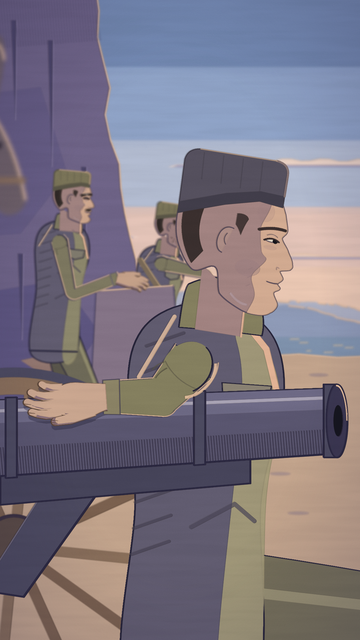
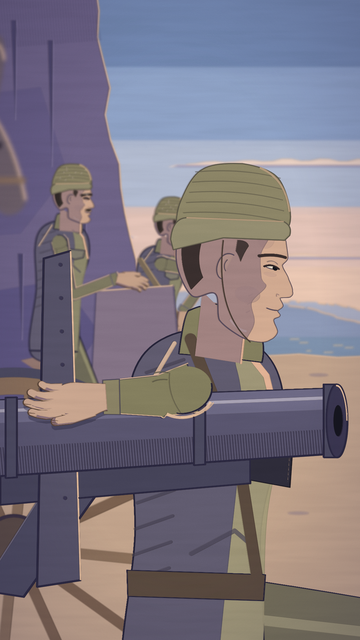
ben-my-chree: kalibrasyon tur-2 (yüz/omuz/kabalak; eşik altı ≈5.5)
Claude-Session: https://claude.ai/code/session_016TQpGXhaa5TtHYb1dDrsRh

diff --git a/src/kit/sablonlar/benmychree/Figur.tsx b/src/kit/sablonlar/benmychree/Figur.tsx
@@ -18,11 +18,11 @@ export type YuzKart = {
 const TEN_GOLGE = "#8a6f7a";
 // tasarim §4.1 teğmen (≈24, bıyıksız, temiz, genç) · §4.2 E1–E4 · §4.2b T1–T4 (kısa saç, başlıksız, kıyafet koyu nötr)
 export const YUZ_KART: Record<string, YuzKart> = {
-  tegmen: { ad: "Teğmen", yas: 24, uzun: 1.0, cene: 0.45, burun: 1.05, dudak: 0.9, elmacik: 0.5, boyun: 0.95, kas: 1.15, kasAci: 1, goz: 0.95, biyik: "yok", sakal: 0, yara: false, toz: 0, ter: false, kirisik: 0, ten: "#cba790", tenGolge: TEN_GOLGE, sac: "#3a2f2e", baslik: "yuvarlak-koyu", kulak: 1 },
-  E1: { ad: "E1 usta er", yas: 38, uzun: 0.95, cene: 0.95, burun: 1.0, dudak: 1.0, elmacik: 0.6, boyun: 1.25, kas: 1.35, kasAci: 4, goz: 0.55, biyik: "gur", sakal: 0, yara: false, toz: 0.6, ter: true, kirisik: 0.55, ten: "#c4a088", tenGolge: TEN_GOLGE, sac: "#2f2826", baslik: "yuvarlak-haki", kulak: 1 },
-  E2: { ad: "E2 genç er", yas: 19, uzun: 1.08, cene: 0.25, burun: 0.95, dudak: 0.85, elmacik: 0.9, boyun: 0.85, kas: 0.8, kasAci: -3, goz: 1.1, biyik: "yok", sakal: 0, yara: false, toz: 0.5, ter: true, kirisik: 0, ten: "#d0ae96", tenGolge: TEN_GOLGE, sac: "#2f2826", baslik: "yuvarlak-haki", kulak: 1 },
-  E3: { ad: "E3 orta yaşlı er", yas: 30, uzun: 0.92, cene: 0.7, burun: 0.92, dudak: 1.05, elmacik: 0.3, boyun: 1.1, kas: 1.1, kasAci: 2, goz: 0.85, biyik: "yok", sakal: 0.8, yara: true, toz: 0.4, ter: false, kirisik: 0.25, ten: "#b89480", tenGolge: TEN_GOLGE, sac: "#2f2826", baslik: "yuvarlak-haki", kulak: 1 },
-  E4: { ad: "E4 yaşlı er", yas: 45, uzun: 1.1, cene: 0.6, burun: 1.12, dudak: 0.8, elmacik: 0.8, boyun: 1.0, kas: 1.45, kasAci: 3, goz: 0.8, biyik: "seyrek-kir", sakal: 0, yara: false, toz: 0.3, ter: false, kirisik: 0.9, ten: "#c9a88f", tenGolge: TEN_GOLGE, sac: "#6e6662", baslik: "yuvarlak-haki", kulak: 1.25 },
+  tegmen: { ad: "Teğmen", yas: 24, uzun: 1.0, cene: 0.45, burun: 1.05, dudak: 0.9, elmacik: 0.5, boyun: 0.95, kas: 1.15, kasAci: 1, goz: 0.95, biyik: "yok", sakal: 0, yara: false, toz: 0, ter: false, kirisik: 0, ten: "#cba790", tenGolge: TEN_GOLGE, sac: "#3a2f2e", baslik: "kabalak-subay", kulak: 1 },
+  E1: { ad: "E1 usta er", yas: 38, uzun: 0.95, cene: 0.95, burun: 1.0, dudak: 1.0, elmacik: 0.6, boyun: 1.25, kas: 1.35, kasAci: 4, goz: 0.55, biyik: "gur", sakal: 0, yara: false, toz: 0.6, ter: true, kirisik: 0.55, ten: "#c4a088", tenGolge: TEN_GOLGE, sac: "#2f2826", baslik: "kabalak-er", kulak: 1 },
+  E2: { ad: "E2 genç er", yas: 19, uzun: 1.08, cene: 0.25, burun: 0.95, dudak: 0.85, elmacik: 0.9, boyun: 0.85, kas: 0.8, kasAci: -3, goz: 1.1, biyik: "yok", sakal: 0, yara: false, toz: 0.5, ter: true, kirisik: 0, ten: "#d0ae96", tenGolge: TEN_GOLGE, sac: "#2f2826", baslik: "kabalak-er", kulak: 1 },
+  E3: { ad: "E3 orta yaşlı er", yas: 30, uzun: 0.92, cene: 0.7, burun: 0.92, dudak: 1.05, elmacik: 0.3, boyun: 1.1, kas: 1.1, kasAci: 2, goz: 0.85, biyik: "yok", sakal: 0.8, yara: true, toz: 0.4, ter: false, kirisik: 0.25, ten: "#b89480", tenGolge: TEN_GOLGE, sac: "#2f2826", baslik: "kabalak-er", kulak: 1 },
+  E4: { ad: "E4 yaşlı er", yas: 45, uzun: 1.1, cene: 0.6, burun: 1.12, dudak: 0.8, elmacik: 0.8, boyun: 1.0, kas: 1.45, kasAci: 3, goz: 0.8, biyik: "seyrek-kir", sakal: 0, yara: false, toz: 0.3, ter: false, kirisik: 0.9, ten: "#c9a88f", tenGolge: TEN_GOLGE, sac: "#6e6662", baslik: "kasket-yumusak", kulak: 1.25 },
   T1: { ad: "T1", yas: 22, uzun: 1.06, cene: 0.3, burun: 0.95, dudak: 0.85, elmacik: 0.7, boyun: 0.9, kas: 0.8, kasAci: -2, goz: 1.0, biyik: "yok", sakal: 0, yara: false, toz: 0, ter: false, kirisik: 0, ten: "#d0ae96", tenGolge: TEN_GOLGE, sac: "#5a4636", baslik: "yok", kulak: 1 },
   T2: { ad: "T2", yas: 40, uzun: 0.95, cene: 0.85, burun: 1.05, dudak: 1.0, elmacik: 0.5, boyun: 1.2, kas: 1.2, kasAci: 2, goz: 0.8, biyik: "kir-gur", sakal: 0, yara: false, toz: 0, ter: false, kirisik: 0.6, ten: "#c4a088", tenGolge: TEN_GOLGE, sac: "#7a7068", baslik: "yok", kulak: 1.05 },
   T3: { ad: "T3", yas: 28, uzun: 1.08, cene: 0.55, burun: 1.08, dudak: 0.85, elmacik: 0.95, boyun: 0.95, kas: 1.0, kasAci: -6, goz: 1.15, biyik: "yok", sakal: 0.15, yara: false, toz: 0.8, ter: false, kirisik: 0.15, ten: "#c9a88f", tenGolge: TEN_GOLGE, sac: "#4a3a30", baslik: "yok", kulak: 1 },
@@ -141,7 +141,7 @@ export const _pts = pts;
 // Yerel birim m; s = px/m; ayak = iki ayağın ortası (zemin teması). yon +1 sağa bakar, −1 sola.
 // Kıyafet: "ceket" (Osmanlı haki ceket, kalça altına iner) · "kazak" (Royal Navy iş kazağı, belde biter). Rütbe/arma/rozet yok.
 export type FigurPoz = { egilme?: number; basEgim?: number; adim?: number; agirlik?: number; diz?: boolean; nefes?: number };
-export type Kiyafet = { tur: "ceket" | "kazak"; renk: string; isik: string; golge: string; pantolon: string; pantolonIsik: string; cizme: string };
+export type Kiyafet = { tur: "ceket" | "kazak"; renk: string; isik: string; golge: string; pantolon: string; pantolonIsik: string; cizme: string; kemer?: boolean; kayis?: boolean; durbun?: boolean; dolak?: boolean };
 const ik2 = (a: P2, b: P2, L1: number, L2: number, yon: number): P2 => {
   const d = Math.min(L1 + L2 - 1e-4, Math.hypot(b[0] - a[0], b[1] - a[1])), t = Math.atan2(b[1] - a[1], b[0] - a[0]);
   const c = Math.acos(Math.max(-1, Math.min(1, (L1 * L1 + d * d - L2 * L2) / (2 * L1 * d))));
@@ -190,6 +190,9 @@ export const ProfilFigur: React.FC<{ ayak: P2; s: number; yon: 1 | -1; boy?: num
       {bacak(kArka, arkaAyak, mix(k.pantolon, "#1c1a24", 0.25))}
       <path d={ayakB(arkaAyak, false)} fill={k.cizme} stroke="#1c1a24" strokeWidth={2} />
       {bacak(kOn, onAyak, k.pantolon)}
+      {k.dolak && [[kArka, arkaAyak], [kOn, onAyak]].map(([kk, aa], j) => { const a0 = kk as P2, a1 = aa as P2; return <g key={`dl${j}`}>
+        <path d={kapsul([a0[0] + (a1[0] - a0[0]) * 0.35, a0[1] + (a1[1] - a0[1]) * 0.35], [a1[0], a1[1] - 0.09 * s], 0.052 * f * s, 0.045 * f * s)} fill={mix(k.pantolon, "#9a9070", 0.35)} stroke="#24223a" strokeWidth={2} />
+        {[0.45, 0.58, 0.71, 0.84].map((q, i) => { const p: P2 = [a0[0] + (a1[0] - a0[0]) * q, a0[1] + (a1[1] - a0[1]) * q]; return <line key={i} x1={p[0] - 0.05 * s} y1={p[1] + 0.012 * s} x2={p[0] + 0.05 * s} y2={p[1] - 0.012 * s} stroke="#4a4436" strokeWidth={Math.max(1.5, 0.005 * s)} opacity={0.8} />; })}</g>; })}
       <path d={ayakB(onAyak, true)} fill={k.cizme} stroke="#1c1a24" strokeWidth={2} />
       {isik === "on" && <path d={`M${kalca[0] + yon * 0.07 * s},${kalca[1]} L${kOn[0] + yon * 0.05 * s},${kOn[1]} L${onAyak[0] + yon * 0.04 * s},${onAyak[1] - 0.1 * s}`} stroke={k.pantolonIsik} strokeWidth={Math.max(3, 0.02 * s)} fill="none" />}
       {/* boyun */}
@@ -210,6 +213,10 @@ export const ProfilFigur: React.FC<{ ayak: P2; s: number; yon: 1 | -1; boy?: num
       {/* kumaş kıvrımları + ceket alt kenarı */}
       {[0.12, 0.26].map((v, i) => <path key={i} d={`M${pts([R(-0.02 * f, v * f), R(0.06 * f, (v + 0.05) * f), R(0.1 * f, (v + 0.02) * f)])}`} stroke={mix(k.golge, "#1c1a24", 0.35)} strokeWidth={Math.max(2, 0.008 * s)} fill="none" opacity={0.7} />)}
       {k.tur === "ceket" && <path d={`M${pts([R(-0.13 * f, ceketBoy + 0.02), R(0.13 * f, ceketBoy + 0.04)])}`} stroke="#24223a" strokeWidth={Math.max(2, 0.008 * s)} />}
+      {k.kemer && <path d={`M${pts([R(-0.135 * f, 0.03 * f), R(0.125 * f, 0.04 * f), R(0.125 * f, 0.09 * f), R(-0.14 * f, 0.08 * f)])} Z`} fill="#5a4a3e" stroke="#24223a" strokeWidth={2} />}
+      {k.kayis && <path d={`M${pts([R(-0.05 * f, 0.53 * f), R(0.06 * f, 0.3 * f), R(0.11 * f, 0.08 * f)])}`} stroke="#5a4a3e" strokeWidth={Math.max(3, 0.022 * s)} fill="none" />}
+      {k.durbun && <g><path d={`M${pts([R(0.07 * f, 0.36 * f), R(0.16 * f, 0.34 * f), R(0.16 * f, 0.26 * f), R(0.07 * f, 0.27 * f)])} Z`} fill="#2e2c3a" stroke="#1c1a24" strokeWidth={2} />
+        <path d={`M${pts([R(0.155 * f, 0.34 * f), R(0.155 * f, 0.27 * f)])}`} stroke={BP.kenar} strokeWidth={2} /></g>}
       {!basYok && <BasProfil kart={kart} x={sk.bas[0]} y={sk.bas[1]} H={0.27 * f * s} ayna={yon === -1} egim={(pz.basEgim ?? 0) * yon + ((pz.egilme ?? 0) * yon) / 2} isik={isik} sicak={sicak} kenar={kenar} bakisY={bakisY} />}
       {onKol}
     </g>
@@ -252,6 +259,23 @@ export type BaslikTip = "yuvarlak-haki" | "yuvarlak-koyu" | "yok" | (string & {}
 export const BaslikProfil: React.FC<{ tip: BaslikTip; u: number; H: number; isik: "on" | "arka"; sicak: string; kenar: string }> = ({ tip, u, H, isik, sicak, kenar }) => {
   if (tip === "yok") return null;
   const sw = (px: number) => px / H;
+  if (tip === "kabalak-subay" || tip === "kabalak-er") {
+    // kabalak (tasarim §4.1–4.2; LoC 20341r): yüksek yuvarlak tepe (≈ 0.55 × yüz), kenarı dışa sarılı kalın simit, siperliksiz; subayda çene kayışı
+    const er = tip === "kabalak-er", bc = er ? "#8a8264" : "#8e8768", bk = mix(bc, "#1c1a24", 0.4), bi = mix(bc, isik === "on" ? sicak : kenar, 0.45);
+    const tepe = -0.3 * u - 0.44, ust = yol([[-0.42, -0.2 * u], [-0.44, -0.42 * u], [-0.32, tepe + 0.08], [-0.05, tepe], [0.2, tepe + 0.05], [0.33, -0.48 * u], [0.32, -0.32 * u], [0.1, -0.3 * u], [-0.2, -0.24 * u]]);
+    return <g>
+      <path d={ust} fill={bc} stroke={bk} strokeWidth={sw(3)} />
+      {[0, 1, 2, 3, 4].map((i) => { const y0 = (-0.36 - i * 0.075) * u, j = er ? (rr(`kb${i}`) - 0.5) * 0.05 : 0; return <path key={i} d={`M${-0.41 + i * 0.01},${y0 + 0.03 + j} Q${-0.05},${y0 - 0.05 - j} ${0.31 - i * 0.02},${y0 - 0.02}`} stroke={bk} strokeWidth={sw(2.2)} fill="none" opacity={0.65} />; })}
+      <path d={`M0.33,${-0.46 * u} Q0.27,${tepe + 0.06} 0.08,${tepe + 0.01}`} stroke={bi} strokeWidth={sw(6)} fill="none" />
+      <path d={`M-0.47,-0.13 Q-0.48,${-0.28 * u} -0.38,${-0.3 * u} L0.3,${-0.38 * u} Q0.37,${-0.36 * u} 0.36,${-0.29 * u} L0.33,${-0.25 * u} L-0.1,${-0.2 * u} L-0.44,-0.06 Z`} fill={mix(bc, "#ffffff", 0.06)} stroke={bk} strokeWidth={sw(3)} />
+      <path d={`M-0.38,${-0.3 * u} L0.3,${-0.38 * u}`} stroke={bi} strokeWidth={sw(4)} />
+      {er && Array.from({ length: 10 }).map((_, i) => <circle key={`t${i}`} cx={-0.35 + rr(`kt${i}`) * 0.6} cy={(-0.4 - rr(`kty${i}`) * 0.3) * u} r={sw(2)} fill="#c9b8b0" opacity={0.6} />)}
+      {!er && <path d={`M-0.1,${-0.18 * u} Q-0.08,${0.32 * u} 0.2,${0.5 * u}`} stroke="#4a3c34" strokeWidth={sw(3.5)} fill="none" />}
+    </g>;
+  }
+  if (tip === "kasket-yumusak") { const bc = "#77705a", bk = mix(bc, "#1c1a24", 0.4); return <g>
+    <path d={yol([[-0.42, -0.16], [-0.38, -0.46 * u], [-0.05, -0.58 * u], [0.3, -0.5 * u], [0.42, -0.36 * u], [0.3, -0.3 * u], [-0.1, -0.25 * u]])} fill={bc} stroke={bk} strokeWidth={sw(3)} />
+    <path d={`M0.28,${-0.33 * u} Q0.4,${-0.36 * u} 0.44,${-0.3 * u}`} stroke={bk} strokeWidth={sw(5)} fill="none" /></g>; }
  const bc = tip === "yuvarlak-koyu" ? "#55505e" : "#7a7458", bk = mix(bc, "#1c1a24", 0.35), bi = mix(bc, sicak, 0.35); return <g>
         <path d={`M-0.42,-0.14 L-0.43,${-0.52 * u} Q-0.42,${-0.6 * u} -0.33,${-0.61 * u} L0.22,${-0.61 * u} Q0.31,${-0.6 * u} 0.31,${-0.52 * u} L0.31,${-0.29 * u} L0.14,${-0.31 * u} L-0.1,${-0.25 * u} Z`} fill={bc} stroke={bk} strokeWidth={sw(3)} />
         <path d={`M-0.42,-0.14 L-0.42,-0.22 L-0.1,${-0.33 * u} L0.14,${-0.38 * u} L0.31,${-0.37 * u} L0.31,${-0.29 * u} L0.14,${-0.31 * u} L-0.1,${-0.25 * u} Z`} fill={bk} />

diff --git a/src/kit/sablonlar/benmychree/Tegmen.tsx b/src/kit/sablonlar/benmychree/Tegmen.tsx
@@ -73,6 +73,9 @@ const Namlu: React.FC<{ x0: number; x1: number; y0: number; y1: number; k0: numb
       {/* geri tepme silindiri (namlu altında, kısa) + beşik kelepçeleri */}
       <path d={`M${x0 + 120},${yA(x0 + 120, 0.45)} L${x1 - 260},${yA(x1 - 260, 0.45)} L${x1 - 260},${yA(x1 - 260, 0.45) + k1 * 0.42} L${x0 + 120},${yA(x0 + 120, 0.45) + k0 * 0.42} Z`} fill="#46445a" stroke="#2a2740" strokeWidth={4} />
       <path d={`M${x0 + 120},${yA(x0 + 120, 0.5)} L${x1 - 260},${yA(x1 - 260, 0.5)}`} stroke="#8a86a0" strokeWidth={4} />
+      <path d={`M${x0 + 250},${yA(x0 + 250, -0.5) - 420} L${x0 + 330},${yA(x0 + 330, -0.5) - 440} L${x0 + 360},${y0 + 420} L${x0 + 230},${y0 + 440} Z`} fill="#565268" stroke="#2a2740" strokeWidth={5} />
+      <path d={`M${x0 + 330},${yA(x0 + 330, -0.5) - 440} L${x0 + 360},${y0 + 420}`} stroke={BP.kenar} strokeWidth={5} />
+      {Array.from({ length: 8 }).map((_, i) => <circle key={i} cx={x0 + 300 + i * 2} cy={yA(x0 + 300, -0.5) - 400 + i * 100} r={6} fill="#3a3650" />)}
       <path d={d} fill="#5a5670" stroke="#2a2740" strokeWidth={5} />
       <path d={`M${x0},${yA(x0, -0.5)} L${x1},${yA(x1, -0.5)} L${x1},${yA(x1, -0.18)} L${x0},${yA(x0, -0.2)} Z`} fill="#6e6a86" />
       <path d={`M${x0},${yA(x0, -0.36)} L${x1 - 20},${yA(x1 - 20, -0.36)}`} stroke={BP.demirIsik} strokeWidth={10} strokeLinecap="round" />
@@ -110,7 +113,7 @@ export const TegmenSahne: React.FC<{ plan: Plan; p: number; kilit: SablonProps["
   // ekran yerleşimi (ref, k150): namlu y 1080–1290; teğmen başı kulak (690, 690), H 470; el namlu üstünde
   const nY0 = 1320, nY1 = 1262, nK0 = 232, nK1 = 196, nX0 = -120, nX1 = 1010;
   const nUst = (x: number) => nY0 + (nY1 - nY0) * ((x - nX0) / (nX1 - nX0)) - (nK0 + (nK1 - nK0) * ((x - nX0) / (nX1 - nX0))) / 2;
-  const skT = profilIskelet([778, 2633 + nefes], 1594, 1, 1.72, { diz: true, egilme: 4 });
+  const skT = profilIskelet([778, 2713 + nefes], 1594, 1, 1.72, { diz: true, egilme: 4 }); // yüz üst kenarı y ≥ 640 (kabalak yazı bandına binmez)
   // kol: omuz (gövde içinde) → dirsek namlu üstüne dayalı → ön kol namlu boyunca, el kamaya doğru; avuç namluyu kavrar (dayali)
   const omuz: P2 = skT.omuz, dirsek: P2 = [omuz[0] - 100, nUst(omuz[0] - 100) + 4], bilek: P2 = [dirsek[0] - 170, nUst(dirsek[0] - 170) + 2 - kalk];
   kilit.push({ ad: "teğmen yüz", p: plaka(ref, k, 1.6).T([skT.bas[0] + 120, skT.bas[1] + 40]), tur: "yuz" }, { ad: "el (pat)", p: plaka(ref, k, 1.35).T([430, nUst(430)]), tur: "dokunus" },
@@ -134,7 +137,7 @@ export const TegmenSahne: React.FC<{ plan: Plan; p: number; kilit: SablonProps["
         <Katman r={ref} k={k} z={5.2}>{(() => {
           const ay: P2 = [452, 1440], sE = 490, pz = { egilme: 10, basEgim: 4, adim: 0.3 };
           const sk = profilIskelet(ay, sE, 1, 1.68, pz);
-          const kiy = { tur: "ceket" as const, renk: ER_HAKI.orta, isik: ER_HAKI.isik, golge: ER_HAKI.golge, pantolon: "#6e6a58", pantolonIsik: "#8f8a6c", cizme: "#3a3446" };
+          const kiy = { tur: "ceket" as const, renk: ER_HAKI.orta, isik: ER_HAKI.isik, golge: ER_HAKI.golge, pantolon: "#6e6a58", pantolonIsik: "#8f8a6c", cizme: "#3a3446", dolak: true };
           const halat = <g><path d={`M${sk.omuz[0] - 0.12 * sE},${sk.omuz[1] - 0.02 * sE} Q${sk.omuz[0] + 0.05 * sE},${sk.omuz[1] + 0.25 * sE} ${sk.omuz[0] + 0.32 * sE},${sk.omuz[1] + 0.62 * sE}`} stroke={BP.halat} strokeWidth={0.035 * sE} fill="none" />
             <path d={`M${sk.omuz[0] - 0.11 * sE},${sk.omuz[1] - 0.03 * sE} Q${sk.omuz[0] + 0.06 * sE},${sk.omuz[1] + 0.23 * sE} ${sk.omuz[0] + 0.31 * sE},${sk.omuz[1] + 0.6 * sE}`} stroke="#a89070" strokeWidth={0.01 * sE} fill="none" /></g>;
           const kol = <KolOmuz omuzR={0.045 * sE} ad="E3 halat" omuz={sk.omuz} bilek={[sk.omuz[0] + 0.14 * sE, sk.omuz[1] + 0.3 * sE]} E={0.18 * sE} poz="tutus" elAci={55} kolBoy={[0.29 * sE, 0.26 * sE]} bukum={-1} palet={EL_ER} kolRenk={ER_HAKI.orta} kolKontur="#3a3650" gen={[0.09 * sE, 0.08 * sE, 0.062 * sE]} isik={[0.8, -0.6]} taramaAci={95} kenar={{ renk: BP.kenar, alfa: 0.9 }} />;
@@ -144,7 +147,7 @@ export const TegmenSahne: React.FC<{ plan: Plan; p: number; kilit: SablonProps["
         <Katman r={ref} k={k} z={4.6}>{(() => {
           const ay: P2 = [168, 1478], sE = 554, pz = { egilme: 6, basEgim: 2, adim: 0.2 };
           const sk = profilIskelet(ay, sE, 1, 1.72, pz);
-          const kiy = { tur: "ceket" as const, renk: ER_HAKI.orta, isik: ER_HAKI.isik, golge: ER_HAKI.golge, pantolon: "#6e6a58", pantolonIsik: "#8f8a6c", cizme: "#3a3446" };
+          const kiy = { tur: "ceket" as const, renk: ER_HAKI.orta, isik: ER_HAKI.isik, golge: ER_HAKI.golge, pantolon: "#6e6a58", pantolonIsik: "#8f8a6c", cizme: "#3a3446", dolak: true };
           const kol = <KolOmuz omuzR={0.045 * sE} ad="E1 kaya" omuz={sk.omuz} bilek={[sk.omuz[0] + 0.32 * sE, sk.omuz[1] + 0.2 * sE]} E={0.18 * sE} poz="dayali" elAci={20} kolBoy={[0.29 * sE, 0.26 * sE]} bukum={1} palet={EL_ER} kolRenk={ER_HAKI.orta} kolKontur="#3a3650" gen={[0.09 * sE, 0.08 * sE, 0.062 * sE]} isik={[0.8, -0.6]} taramaAci={95} kenar={{ renk: BP.kenar, alfa: 0.9 }} />;
           return <g>
             {/* dayandığı kaya çıkıntısı (mevzi iç duvarının basamağı) */}
@@ -157,8 +160,8 @@ export const TegmenSahne: React.FC<{ plan: Plan; p: number; kilit: SablonProps["
         <Katman r={ref} k={k} z={2.2}><Teker c={[40, 1640]} r={520} /></Katman>
         {/* teğmen (z 1.6): diz çökmüş, gövde dik, profil sağa (güneye); boştaki (uzak) kol gövdenin arkasında, görünmez */}
         <Katman r={ref} k={k} z={1.6}>{(() => {
-          const kiy = { tur: "ceket" as const, renk: HAKI.orta, isik: HAKI.isik, golge: HAKI.golge, pantolon: "#76705a", pantolonIsik: "#9a9274", cizme: "#3a3446" };
-          return <ProfilFigur ayak={[778, 2633 + nefes]} s={1594} yon={1} boy={1.72} pz={{ diz: true, egilme: 4, basEgim: 7 }} k={kiy} kart={YUZ_KART.tegmen} isik="on" />;
+          const kiy = { tur: "ceket" as const, renk: HAKI.orta, isik: HAKI.isik, golge: HAKI.golge, pantolon: "#76705a", pantolonIsik: "#9a9274", cizme: "#3a3446", kemer: true, kayis: true, durbun: true };
+          return <ProfilFigur ayak={[778, 2713 + nefes]} s={1594} yon={1} boy={1.72} pz={{ diz: true, egilme: 4, basEgim: 7 }} k={kiy} kart={YUZ_KART.tegmen} isik="on" />;
         })()}</Katman>
         {/* namlu + teğmenin eli (z 1.35): ön kol namlu üstünde, el geriye (kamaya) doğru dayalı; pat = 6 px kalkış */}
         <Katman r={ref} k={k} z={1.35}>

diff --git a/src/kit/sablonlar/benmychree/KiyiBatarya.tsx b/src/kit/sablonlar/benmychree/KiyiBatarya.tsx
@@ -72,6 +72,17 @@ const Maki: React.FC<{ x: number; y: number; r: number; seed: string }> = ({ x, 
     {Array.from({ length: 6 }).map((_, i) => <circle key={`n${i}`} cx={x + (rr(`${seed}nx${i}`) - 0.5) * r * 1.6} cy={y - rr(`${seed}ny${i}`) * r * 0.7} r={Math.max(1.5, r * 0.05)} fill="#4c5470" opacity={0.6} />)}
   </g>;
 };
+// kesilmiş çam/maki dalı (mevzi örtüsü; tasarim §4.4, LoC 20341r): gövde + iğne kümeleri, uç ışıkta
+const Dal: React.FC<{ a: P2; b: P2; k: number; seed: string }> = ({ a, b, k, seed }) => {
+  const n = 9, L = Math.hypot(b[0] - a[0], b[1] - a[1]), t = Math.atan2(b[1] - a[1], b[0] - a[0]);
+  return <g>
+    <path d={`M${a[0]},${a[1]} Q${(a[0] + b[0]) / 2 + 20},${(a[1] + b[1]) / 2 - 15} ${b[0]},${b[1]}`} stroke="#5a4a40" strokeWidth={6 * k} fill="none" />
+    {Array.from({ length: n }).map((_, i) => { const q = (i + 1) / (n + 1), c: P2 = [a[0] + (b[0] - a[0]) * q, a[1] + (b[1] - a[1]) * q], r = (0.12 + 0.1 * rr(`${seed}${i}`)) * L * 0.5;
+      return <g key={i}>{Array.from({ length: 9 }).map((__, j) => { const an = t + Math.PI / 2 + (j - 4) * 0.32 + (rr(`${seed}${i}a${j}`) - 0.5) * 0.3, s2 = j % 2 ? 1 : -1;
+        return <line key={j} x1={c[0]} y1={c[1]} x2={c[0] + Math.cos(an) * r * s2} y2={c[1] + Math.sin(an) * r * s2} stroke={j % 3 === 0 ? "#7d8460" : "#5c6448"} strokeWidth={3.5 * k} strokeLinecap="round" />; })}
+        <circle cx={c[0] - r * 0.3} cy={c[1] - r * 0.4} r={r * 0.25} fill={mix("#7d8460", BP.kenar, 0.4)} opacity={0.6} /></g>; })}
+  </g>;
+};
 const Ot: React.FC<{ x: number; y: number; L: number; ruz: number; t: number; seed: string; n?: number; w?: number }> = ({ x, y, L, ruz, t, seed, n = 6, w = 3 }) => (
   <g>{Array.from({ length: n }).map((_, j) => { const l = L * (0.6 + 0.5 * rr(`${seed}${j}`)), a = (j - n / 2) * 0.12 + ruz * 0.35 + Math.sin(t * 1.4 + j + rr(`${seed}f`) * 5) * 0.05;
     return <path key={j} d={`M${x + j * w * 1.2},${y} Q${x + j * w * 1.2 + a * l * 0.3},${y - l * 0.6} ${x + j * w * 1.2 + a * l},${y - l}`} stroke={j % 3 ? BP.ot : mix(BP.ot, BP.kenar, 0.4)} strokeWidth={w} fill="none" strokeLinecap="round" />; })}</g>
@@ -115,6 +126,8 @@ const OyukYamaci: React.FC<{ t: number; bulut: number }> = ({ t, bulut }) => (
     <Tara d={`M${pts([[140, 850], [300, 792], [520, 778], [700, 790], [930, 830], [1040, 860], [910, 880], [700, 846], [520, 836], [300, 848], [170, 900]])} Z`} aci={60} aralik={8} kalin={2.6} renk="#1c1a2c" alfa={0.55} kutu={[140, 778, 1040, 900]} />
     {[[260, 660, 120], [470, 640, 110], [720, 660, 120], [900, 710, 100]].map(([x, y, L], i) => <g key={`sk${i}`}><path d={`M${x - 8},${y} L${x + 4},${y + L} L${x + 9},${y} Z`} fill={BP.tasGolge} /><path d={`M${x + 9},${y} L${x + 6},${y + L}`} stroke={BP.kenar} strokeWidth={3} /></g>)}
     <path d="M110,700 L300,640 L560,628 L800,650 L990,720" stroke={BP.kenar} strokeWidth={5} fill="none" />
+    {/* mevzi örtüsü: saçaktan sarkan ve yanlara dayanmış kesik dallar; ortada namlu görüş aralığı açık */}
+    {[[[150, 840], [210, 1180]], [[230, 820], [330, 1080]], [[320, 800], [380, 960]], [[980, 860], [900, 1180]], [[880, 830], [790, 1060]], [[760, 800], [700, 940]], [[60, 1260], [260, 1000]], [[1010, 1250], [850, 1020]], [[470, 790], [450, 900]], [[620, 790], [660, 905]]].map(([a, b], i) => <Dal key={`dal${i}`} a={a as P2} b={b as P2} k={1} seed={`dal${i}`} />)}
     {/* üst dudak kenarı: ışıkta kırık çizgi */}
     <path d={`M${pts(AGIZ.slice(1, 11))}`} stroke={BP.kenar} strokeWidth={4} fill="none" />
     {/* alt dudak: seki kenarı ışıkta */}

diff --git a/bolumler/ben-my-chree/katki-raporu.md b/bolumler/ben-my-chree/katki-raporu.md
@@ -118,3 +118,19 @@
 - Kararlar: Kesin hiçbir madde yok; en yüksek güç "olası". Er = kabalak, subay = silindirik kalpak önerisi (olası, çıkarım etiketli). Rütbe/arma/dürbün/kılıç nötr. Hex değerleri çıkarım, kaynak değil. Kırmızı yaka kullanılmasın (KOR tekilliği + topçu rengi doğrulanamadı).
 - Kurallar: kaynaksız bilgi "çıkarım" etiketli; açılmayan kaynak "arama özeti".
 - Açık: ağ izniyle Commons/LoC/AWM fotoğrafı + Nicolle Men-at-Arms 269 okunursa kesinleşir. Kamu malı fotoğraf bulunamadı. Tasarımcı: tasarim.md §4.2 başlık tarifi güncellenmeli (sahibi tasarımcı).
+
+### motion · 2026-11-15 · kalibrasyon tur-2 (orkestra teşhisi + tur-7 omuz/yüz notları + üniforma)
+- **Ne yaptım (parametre/kod düzeyi):** Yüz: çift profil yapan kontura paralel ışık bandı → alın/elmacık/çene hacmini izleyen ışık düzlemi; elmacık, nazolabial ve kaz ayağı çizgileri kaldırıldı, yerine yumuşak ten gölgesi alanı ve göz altı tonu geldi; favori saç yönünde biçimli; burun ve bıyık ölçülü. Omuz: `profilIskelet` omuz eklemi boyundan 0.05·f geride, 0.08·f aşağıda; `OmuzBasi` (deltoid, kola göre döner, kavisli dikiş, koltuk altı kırışığı) ve `KolOmuz` (ElKol40 + başlık + sıvalı yen); yaka kavisli; gövde yuvarlak omuzlu ve gölge taraflı. Başlık ayrı bileşen `BaslikProfil`: teğmende `kabalak-subay` (çene kayışlı), E1–E3'te `kabalak-er`, E4'te `kasket-yumusak`; teğmende kemer, çapraz kayış ve dürbün; erlerde dolak. K3: teğmen 80 px aşağı (yüz üstü ≥ 640), kol dirsekli ve namluya dayalı, topa lafet, geri tepme silindiri ve kalkan eklendi. K2: T3 açık V yakalı kazak + iç fanila, kol sıvalı, kolu yüzünü koruyor, geri yaslanıyor; duvara alev ışığı (3 basamak), pas izleri, belirgin perçin sıraları; alev koyu kırmızı konturlu ve sıcak çekirdekli; duman kapı lentosundan çıkıyor. K4: sarkan kaya saçağı (alt yüzü taramalı), iç yan duvarlar, ağzı örten kesik dallar, daha yoğun zemin; parıltı opak. K1: ön kaya sağa alçalan tabakalı yamaç, oyuk dudak altında yarık; gemi dikey abartısı 1.4, gövde koyu, kenar ışıkları kalın; kale alçaltıldı.
+- **Ölçüm tur-2:**
+
+| kare | sıcak | p95 L* | sonuç |
+|---|---|---|---|
+| K1 | %27.9 | 80.8 | geçti |
+| K2 | %24.7 | **69.4** | **kaldı** |
+| K3 | %22.9 | 75.4 | geçti |
+| K4 | %50.0 | 79.0 | geçti |
+
+  Kor: K4 parıltı max C* 57.3 (≥ 55, geçti); K2 alev max C* 74.7. K2'de kor kutusu dışında L*>88: 255 px (sıcak çekirdek taşıyor).
+- **Piksel-aynı:** Paris k300 ve Çiçero k1200'de farklı piksel 0 (`tur-2/pikselayni/`). Ortak `src/rig` ve `El40` dosyalarına dokunulmadı.
+- **Öz puan ≈ 5.5:** K1 6 · K2 5 · K3 5.5 · K4 6.
+- **Kalan zayıflıklar:** K3 kalkanı profilde "direk" gibi; omuz başlığı hâlâ top gibi okunabilir. K2'de alev duman altında küçük kalıyor ve p95 tutmuyor. K1 ön kaya çuval/ekmek gibi okunabilir. K4 dalları seyrek ve ince. E2, E4, T1, T2, T4 bu karelerde yok, 2× kırpımları alınamadı. Kıyafet tur-2'de kısmi: teğmende külot ve çizme, erlerde potin kadrajda görünmüyor.
